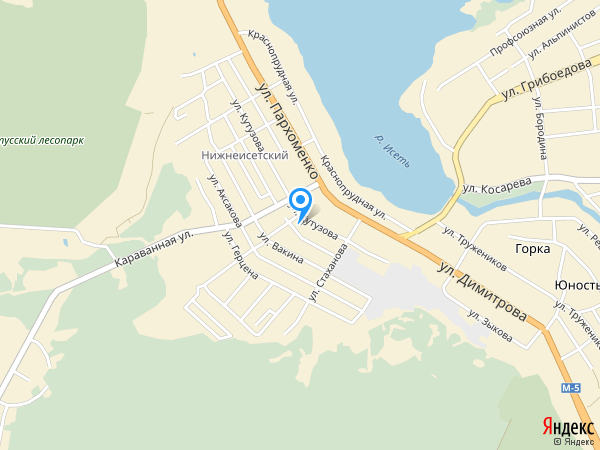
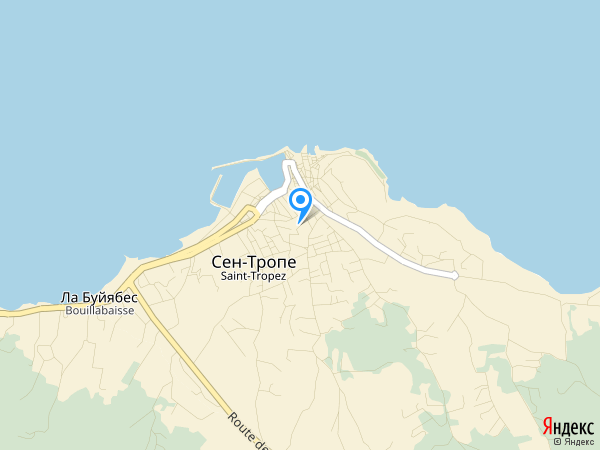
Паспорт скважины

diff --git a/load_map_image.py b/load_map_image.py
@@ -8,7 +8,7 @@ import shutil
 import requests
 
 out_filename = './images/map.png'
-coords = '56,747179 60,67913'
+coords = '43.269124 6.640285'
 
 (lat, lon) = coords.replace(',', '.').split()
 scale = 14          # Масштабирование
